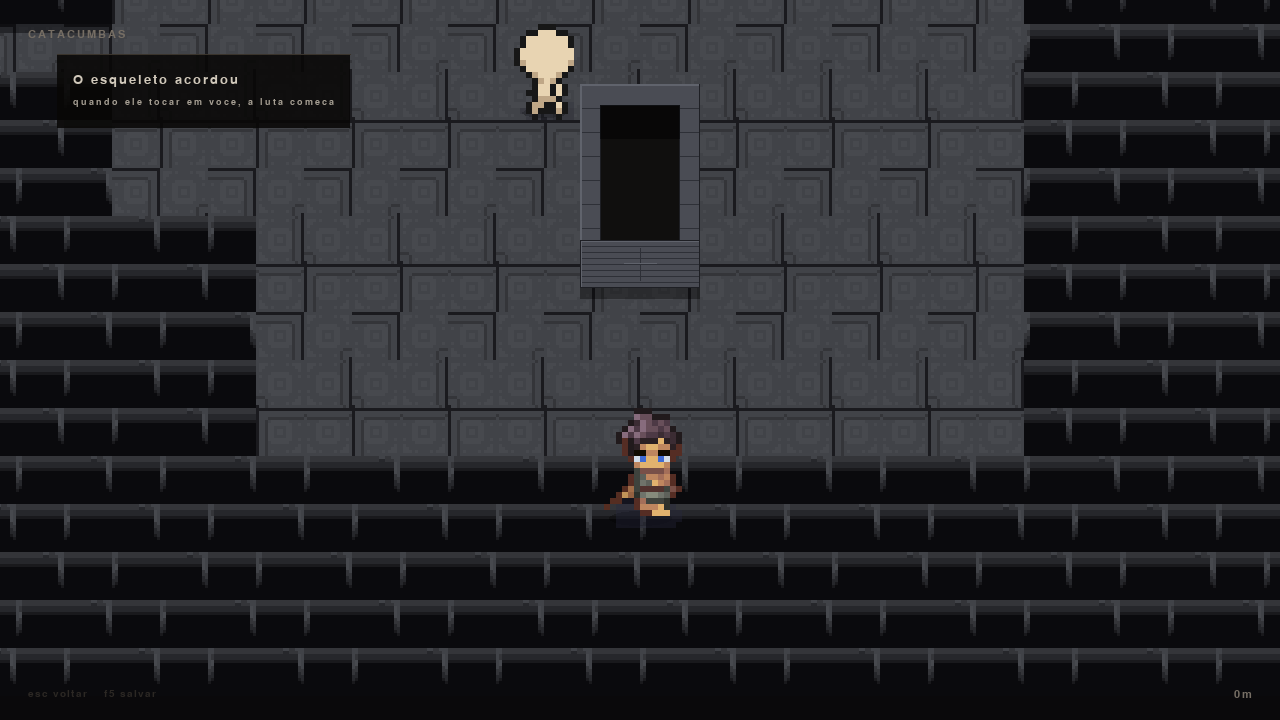
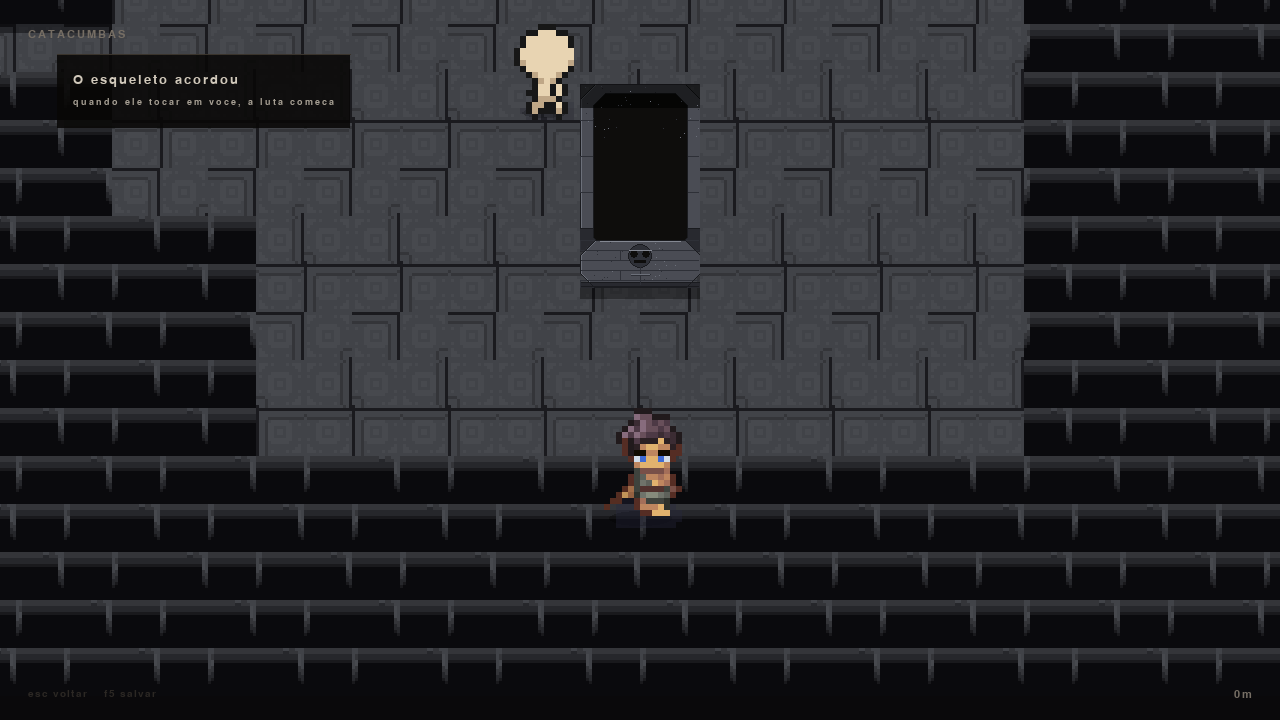
Redesenha o caixao como sarcofago de pedra
O sarcofago era um retangulo com textura de tijolo. Agora le como tumulo:
contorno octogonal com ombros largos na cabeca e nos pes, plinto mais
escuro na base, buraco cavado na propria silhueta, cranio entalhado e
cruz na tampa, desgaste fixo e sombra propria no chao.

Tres defeitos corrigidos:

- o chanfro dos cantos crescia junto com o recuo do interior, e o
  buraco saia com o topo em ogiva. Agora o chanfro e um valor
  independente do recuo.
- o cranio era medido pelo lado maior da tampa e saia do tamanho de um
  rebite. Agora e pelo menor.
- a pedra era redesenhada sessenta vezes por quadro. Montada uma vez
  por tamanho com lru_cache, o desenho por quadro virou so blit:
  318 -> 216 fps sem o cache, 329 com ele.

tools/preview_caixao.py mostra a tampa em 0/25/50/75/100% de abertura.

Changed region(s): [[0.4375, 0.0917, 0.5625, 0.3972]]

diff --git a/src/coffin.py b/src/coffin.py
@@ -1,15 +1,23 @@
-"""Caixao de pedra, desenhado por codigo.
+"""Sarcofago de pedra, desenhado por codigo.
 
-Nenhum dos pacotes de sprite tem um sarcofago, e um sprite pronto
+Nenhum dos pacotes de sprite tem um tumulo, e um sprite pronto
 resolveria so a metade do problema: a tampa precisa deslizar para o
 personagem sair, e isso e animacao. Desenhar aqui deixa a tampa ser
 uma peca movel de verdade.
 
-O caixao tem duas pecas:
+O desenho e um sarcofago visto de cima: ombros largos na cabeca e nos
+pes, cintura estreita no meio, canto chanfrado e um plinto mais escuro
+na base. E o contorno, e nao a cor, que faz a peca ler como tumulo em
+vez de caixa.
+
+As pecas:
   - a base, fixa no chao, com o interior escuro
-  - a tampa, que desliza para o lado quando o jogador acorda
+  - a tampa, que desliza para o sul quando o jogador acorda
 """
 from __future__ import annotations
+
+import random
+from functools import lru_cache
 
 import pygame
 
@@ -22,44 +30,196 @@ LID_SLIDE = 46  # quanto a tampa anda para o sul ao abrir
 
 # paleta de pedra: cinza frio, com a junta mais escura
 STONE = (74, 76, 84)
-STONE_LIGHT = (96, 99, 108)
+STONE_LIGHT = (108, 112, 122)
+STONE_HI = (132, 136, 146)
 STONE_DARK = (46, 48, 55)
-STONE_EDGE = (30, 31, 36)
-INTERIOR = (16, 15, 14)
+STONE_EDGE = (26, 27, 31)
+INTERIOR = (14, 13, 12)
+PLINTH = (40, 41, 47)
+
+def _sorteio(n: int, seed: int) -> list[float]:
+    """Lista de `n` numeros de 0 a 1, sempre igual.
+
+    Fixo de proposito: se o desgaste fosse sorteado a cada quadro, a
+    pedra mudava de desenho sessenta vezes por segundo e o caixao
+    piscava.
+    """
+    return [random.Random(seed * 1000 + i).random() for i in range(n)]
 
 
-def _stone_body(width: int, height: int) -> pygame.Surface:
-    """Corpo do caixao, com a pedra em faixas e junta marcada."""
-    img = pygame.Surface((width, height), pygame.SRCALPHA)
+def _contorno(
+    w: int,
+    h: int,
+    aperto: int = 0,
+    corte: int | None = None,
+) -> list[tuple[int, int]]:
+    """Contorno do sarcofago: ombros largos, cintura estreita, base reta.
 
-    pygame.draw.rect(img, STONE, img.get_rect())
-    # faixas horizontais de blocos, para nao parecer um retangulo liso
-    altura_bloco = max(4, height // 7)
-    for y in range(0, height, altura_bloco):
-        pygame.draw.line(img, STONE_DARK, (0, y), (width, y), 1)
-    # blocos alternados, dando a junta vertical
-    for y in range(0, height, altura_bloco * 2):
-        x = (y // altura_bloco) % 2 * (width // 3)
-        pygame.draw.line(img, STONE_DARK, (x, y), (x, y + altura_bloco), 1)
+    `aperto` encolhe a peca, para o interior sair da propria silhueta.
+    `corte` e o chanfro dos cantos, em pixels.
 
-    # luz de cima e sombra de baixo, dando volume
-    pygame.draw.line(img, STONE_LIGHT, (0, 0), (width, 0), 2)
-    pygame.draw.line(img, STONE_LIGHT, (0, 0), (0, height), 2)
-    pygame.draw.line(img, STONE_EDGE, (0, height - 1), (width, height - 1), 2)
-    pygame.draw.line(img, STONE_EDGE, (width - 1, 0), (width - 1, height), 2)
-    return img
+    O chanfro precisa ser independente do `aperto`. Quando ele crescia
+    junto, o interior recuava um terco da largura e o buraco do caixao
+    saia com o topo em ogiva, parecendo uma capela.
+    """
+    if corte is None:
+        corte = max(2, w // 8)
+    corte = max(1, min(corte, h // 2, w // 2))
+    meia = max(2.0, w / 2 - aperto)
+    ombro = max(2.0, meia - corte)
+
+    esquerda: list[tuple[int, int]] = []
+    direita: list[tuple[int, int]] = []
+    for y in range(h):
+        if y < corte:
+            largura = ombro + (y / corte) * corte
+        elif y > h - corte:
+            largura = ombro + ((h - y) / corte) * corte
+        else:
+            largura = meia
+        esquerda.append((w / 2 - max(2.0, largura), y))
+        direita.append((w / 2 + max(2.0, largura), y))
+    return esquerda + list(reversed(direita))
+
+
+def _preencher_forma(
+    img: pygame.Surface, contorno: list[tuple[int, int]], cor: tuple[int, int, int]
+) -> None:
+    pygame.draw.polygon(img, cor, contorno)
+
+
+def _borda_luz(
+    img: pygame.Surface,
+    contorno: list[tuple[int, int]],
+    cor: tuple[int, int, int],
+    largura: int = 2,
+) -> None:
+    """Luz na aresta de cima, sombra embaixo: o que da volume."""
+    topo = sorted(contorno[: len(contorno) // 2], key=lambda p: p[1])
+    pygame.draw.lines(img, cor, False, [(int(x), int(y)) for x, y in topo], largura)
+
+
+def _manchas(img: pygame.Surface, w: int, h: int, seed: int, quantidade: int) -> None:
+    """Pitting e desgaste. Deixa a pedra imperfecta, sem virar ruido."""
+    for u, v in zip(_sorteio(quantidade, seed), _sorteio(quantidade, seed + 1)):
+        x = int(u * (w - 2)) + 1
+        y = int(v * (h - 2)) + 1
+        cor = STONE_DARK if (x + y) % 3 else STONE_LIGHT
+        pygame.draw.rect(img, cor, pygame.Rect(x, y, 1, 1))
 
 
 def _desenhar_cruz(img: pygame.Surface, center: tuple[int, int], tamanho: int) -> None:
-    """Cruz entalhada, o detalhe que faz ler como tumba."""
+    """Cruz entalhada, o detalhe que faz ler como tumulo."""
     x, y = center
-    bra = max(1, tamanho // 12)
+    bra = max(1, tamanho // 10)
     pygame.draw.line(img, STONE_DARK, (x - tamanho, y), (x + tamanho, y), bra)
     pygame.draw.line(img, STONE_DARK, (x, y - tamanho), (x, y + tamanho), bra)
     pygame.draw.line(
-        img, STONE_LIGHT,
-        (x - tamanho, y - bra), (x + tamanho, y - bra), 1,
+        img, STONE_LIGHT, (x - tamanho, y - bra), (x + tamanho, y - bra), 1
     )
+
+
+def _desenhar_cabeca(img: pygame.Surface, w: int, h: int, x: int, y: int) -> None:
+    """Cranio entalhado na tampa.
+
+    O raio e sobre a MENOR dimensao da tampa: com a medida pelo maior
+    lado o cranio saia do tamanho de um rebite e a tampa perdia o
+    assunto.
+    """
+    r = max(2, min(w, h) // 4)
+    pygame.draw.circle(img, STONE_DARK, (x, y), r)
+    pygame.draw.circle(img, STONE_EDGE, (x, y), r, 1)
+    # orbitas fundas
+    for sinal in (-1, 1):
+        pygame.draw.circle(
+            img, INTERIOR, (x + sinal * max(1, r // 2), y - r // 5),
+            max(1, r // 3),
+        )
+    # dentes
+    dentes = max(2, r // 2)
+    pygame.draw.rect(img, INTERIOR, (x - dentes, y + r // 3, dentes * 2, max(1, r // 4)))
+    pygame.draw.line(
+        img, STONE_HI, (x - r + 1, y - r // 2), (x + r - 1, y - r // 2), 1
+    )
+
+
+@lru_cache(maxsize=16)
+def _stone_body(width: int, height: int) -> pygame.Surface:
+    """Bloco de pedra: contorno chanfrado, plinto e juntas.
+
+    Cacheado por tamanho. O sarcofago nao se mexe sozinho: redesenhar
+    o poligono, as juntas e as manchas sessenta vezes por quadro custou
+    100 fps da masmorra (318 -> 216) para produzir a mesma imagem.
+    """
+    img = pygame.Surface((width, height), pygame.SRCALPHA)
+    img.fill((0, 0, 0, 0))
+
+    plinto_h = max(2, height // 7)
+    contorno = _contorno(width, height)
+    _preencher_forma(img, contorno, STONE)
+    _borda_luz(img, contorno, STONE_LIGHT, 2)
+    pygame.draw.lines(img, STONE_EDGE, True, [(int(x), int(y)) for x, y in contorno], 1)
+
+    # plinto: a base e um degrau mais largo e mais escuro
+    pygame.draw.rect(
+        img,
+        PLINTH,
+        pygame.Rect(0, height - plinto_h, width, plinto_h),
+    )
+    pygame.draw.line(
+        img, STONE_EDGE, (0, height - plinto_h), (width, height - plinto_h), 1
+    )
+
+    # faixas de bloco na face, para nao parecer um retangulo liso
+    bloco = max(3, (height - plinto_h) // 4)
+    for y in range(0, height - plinto_h, bloco):
+        pygame.draw.line(img, STONE_DARK, (1, y), (width - 2, y), 1)
+        x = (y // bloco) % 2 * (width // 3)
+        pygame.draw.line(img, STONE_DARK, (x, y), (x, y + bloco), 1)
+
+    _manchas(img, width, height - plinto_h, seed=3, quantidade=width // 3)
+    return img
+
+
+@lru_cache(maxsize=16)
+def _base_completa(w: int, h: int) -> pygame.Surface:
+    """Sarcofago com o buraco cavado. Montado uma vez por tamanho."""
+    # copia: o buraco e a sombra sao desenhados por cima, e mexer na
+    # superficie do cache estragaria a proxima chamada
+    base = _stone_body(w, h).copy()
+
+    # interior: a mesma silhueta, encolhida e deslocada para baixo,
+    # deixando a parede grossa na cabeca. Retangulo dentro de contorno
+    # chanfrado deixava uma quina de pedra aparecendo no vazio.
+    vao = _contorno(
+        w,
+        h - max(3, h // 14),
+        aperto=max(2, w // 9),
+        corte=max(2, w // 10),
+    )
+    vao = [(x, y + max(2, h // 18)) for x, y in vao]
+    _preencher_forma(base, vao, INTERIOR)
+    pygame.draw.lines(
+        base, STONE_EDGE, True, [(int(x), int(y)) for x, y in vao], 1
+    )
+
+    # sombra interna na parede de cima, dando profundidade ao buraco
+    sombra = pygame.Surface((w, max(2, h // 7)), pygame.SRCALPHA)
+    sombra.fill((0, 0, 0, 150))
+    base.blit(sombra, (0, 0))
+
+    # limo e po no fundo, para a pedra nao parecer lavada
+    _manchas(base, w, h // 3, seed=11, quantidade=w // 4)
+
+    return base
+
+
+@lru_cache(maxsize=16)
+def _sombra(largura: int, altura: int, alpha: int) -> pygame.Surface:
+    """Mancha de sombra reutilizavel, so com o tamanho variando."""
+    sombra = pygame.Surface((max(1, largura), max(1, altura)), pygame.SRCALPHA)
+    sombra.fill((0, 0, 0, alpha))
+    return sombra
 
 
 def draw_coffin(
@@ -68,34 +228,40 @@ def draw_coffin(
     open_progress: float = 0.0,
     scale: int = 1,
 ) -> pygame.Rect:
-    """Desenha o caixao e devolve o retangulo ocupado no chao.
-
-    `open_progress` vai de 0 (tampa fechada) a 1 (tampa toda para o
-    lado). A tampa e desenhada depois do heroi quando ela esta fechando
-    o suficiente para esconder, e antes quando esta aberta, entao quem
-    chama decide a ordem pelo valor.
-    """
+    """Desenha o caixao e devolve o retangulo ocupado no chao."""
     s = max(1, int(scale))
     w, h = COFFIN_W * s, COFFIN_H * s
     cx, cy = center
 
-    # --- base com o interior escuro, para o personagem "dentro" dela
-    base = _stone_body(w, h)
-    # moldura: a borda de pedra fica mais larga embaixo e nas laterais,
-    # e o miolo e o vazio onde o heroi estava deitado
-    lateral = max(3, w // 6)
-    cabeca = max(4, h // 8)
-    vao = pygame.Rect(lateral, cabeca, w - 2 * lateral, h - cabeca - lateral // 2)
-    pygame.draw.rect(base, INTERIOR, vao)
-    pygame.draw.rect(base, STONE_EDGE, vao, 1)
-    # sombra interna no alto, dando profundidade ao buraco
-    sombra = pygame.Surface((vao.width, max(2, vao.height // 4)), pygame.SRCALPHA)
-    sombra.fill((0, 0, 0, 120))
-    base.blit(sombra, (vao.x, vao.y))
-
+    base = _base_completa(w, h)
     rect = base.get_rect(center=(cx, cy))
+
+    # sombra propria no chao
+    sombra_chao = _sombra(w, max(3, h // 10), 110)
+    surface.blit(
+        sombra_chao,
+        sombra_chao.get_rect(centerx=cx, bottom=rect.bottom - h // 12),
+    )
     surface.blit(base, rect)
     return rect
+
+
+@lru_cache(maxsize=16)
+def _tampa(w: int, h: int) -> pygame.Surface:
+    """Tampa pronta: pedra, cranio, cruz e bisel. Cacheada como um todo."""
+    tampa = _stone_body(w, h).copy()
+    _desenhar_cabeca(tampa, w, h, w // 2, h // 3)
+    _desenhar_cruz(tampa, (w // 2, int(h * 0.74)), min(w, h) // 5)
+
+    # bisel: linha clara no alto, escura embaixo
+    pygame.draw.line(tampa, STONE_HI, (w // 6, 1), (w - w // 6, 1), 1)
+    pygame.draw.line(tampa, STONE_EDGE, (1, h - 2), (w - 2, h - 2), max(1, h // 32))
+
+    contorno = _contorno(w, h)
+    pygame.draw.lines(
+        tampa, STONE_EDGE, True, [(int(x), int(y)) for x, y in contorno], 1
+    )
+    return tampa
 
 
 def draw_lid(
@@ -110,15 +276,12 @@ def draw_lid(
     deslocamento = int(LID_SLIDE * s * max(0.0, min(1.0, open_progress)))
     cx, cy = center
 
-    tampa = _stone_body(w, h)
-    _desenhar_cruz(tampa, (w // 2, h // 2), min(w, h) // 3)
-    pygame.draw.rect(tampa, STONE_EDGE, tampa.get_rect(), 1)
+    tampa = _tampa(w, h)
 
     rect = tampa.get_rect(center=(cx, cy + deslocamento))
     # sombra da tampa no chao, para ela nao parecer colada
     if deslocamento:
-        sombra = pygame.Surface((w, max(3, h // 3)), pygame.SRCALPHA)
-        sombra.fill((0, 0, 0, 90))
+        sombra = _sombra(w, max(3, h // 3), 90)
         surface.blit(
             sombra,
             sombra.get_rect(centerx=cx, top=rect.top + h - sombra.get_height() // 3),

diff --git a/tools/preview_caixao.py b/tools/preview_caixao.py
@@ -1,0 +1,32 @@
+import pathlib
+import sys
+
+import pygame
+
+sys.path.insert(0, str(pathlib.Path(__file__).resolve().parent.parent))
+
+from src import coffin
+
+pygame.init()
+
+ESC = 4
+ABERTOS = [0.0, 0.25, 0.5, 0.75, 1.0]
+w, h = coffin.COFFIN_W * ESC, coffin.COFFIN_H * ESC
+folha = pygame.Surface((w * len(ABERTOS) + 20, h + 30))
+folha.fill((24, 25, 30))
+
+x = 10
+for progresso in ABERTOS:
+    pygame.draw.rect(
+        folha, (44, 46, 54), pygame.Rect(x - 4, 10, w + 8, h), 1
+    )
+    coffin.draw_coffin(folha, (x + w // 2, 10 + h // 2), progresso, ESC)
+    coffin.draw_lid(folha, (x + w // 2, 10 + h // 2 - coffin.COFFIN_H * ESC // 4),
+                    progresso, ESC)
+    pygame.draw.line(folha, (200, 170, 90), (x, h + 18), (x + w, h + 18), 1)
+    x += w + 10
+
+pygame.image.save(folha, "preview_caixao.png")
+print(f"preview_caixao.png {folha.get_width()}x{folha.get_height()} escala={ESC}")
+print("colunas da esquerda para a direita: tampa em",
+      ", ".join(f"{int(p * 100)}%" for p in ABERTOS), "de abertura")

diff --git a/KANBAN.md b/KANBAN.md
@@ -134,4 +134,19 @@ As issues #N sao as do repositorio. Um item por commit entregue.
       equivalentes, para o heroi nunca cair no desenho de reserva.
       `tools/preview_espadachim.py` foi criado aqui: mostra os
       estados lado a lado, para nao dar palpite no desenho.
-- [ ] #28  Coixao de pedra                              (pendente)
+- [x] #28  Coixao de pedra                              (este commit)
+      O sarcofago era um retangulo com textura de tijolo. Agora e um
+      tumulo: contorno octogonal com ombros largos na cabeca e nos pes,
+      plinto mais escuro na base, buraco cavado na propria silhueta,
+      cranio entalhado e cruz na tampa, e desgaste fixo.
+      - o chanfro dos cantos passou a ser um valor proprio. Quando
+        crescia junto com o recuo do interior, o buraco saia com o topo
+        em ogiva e o caixao parecia uma capela;
+      - o cranio era medido pelo LADO MAIOR da tampa e saia do tamanho
+        de um rebite. Agora e pelo menor;
+      - a pedra, o buraco, a tampa e as sombras sao montados uma vez
+        por tamanho (`lru_cache`) e o desenho por quadro e so blit.
+        Sem o cache o redesenho do poligono custou 100 fps da masmorra
+        (318 -> 216) para produzir a mesma imagem. Com o cache: 329.
+      `tools/preview_caixao.py` foi criado aqui: mostra a tampa em
+      0/25/50/75/100% de abertura lado a lado.
